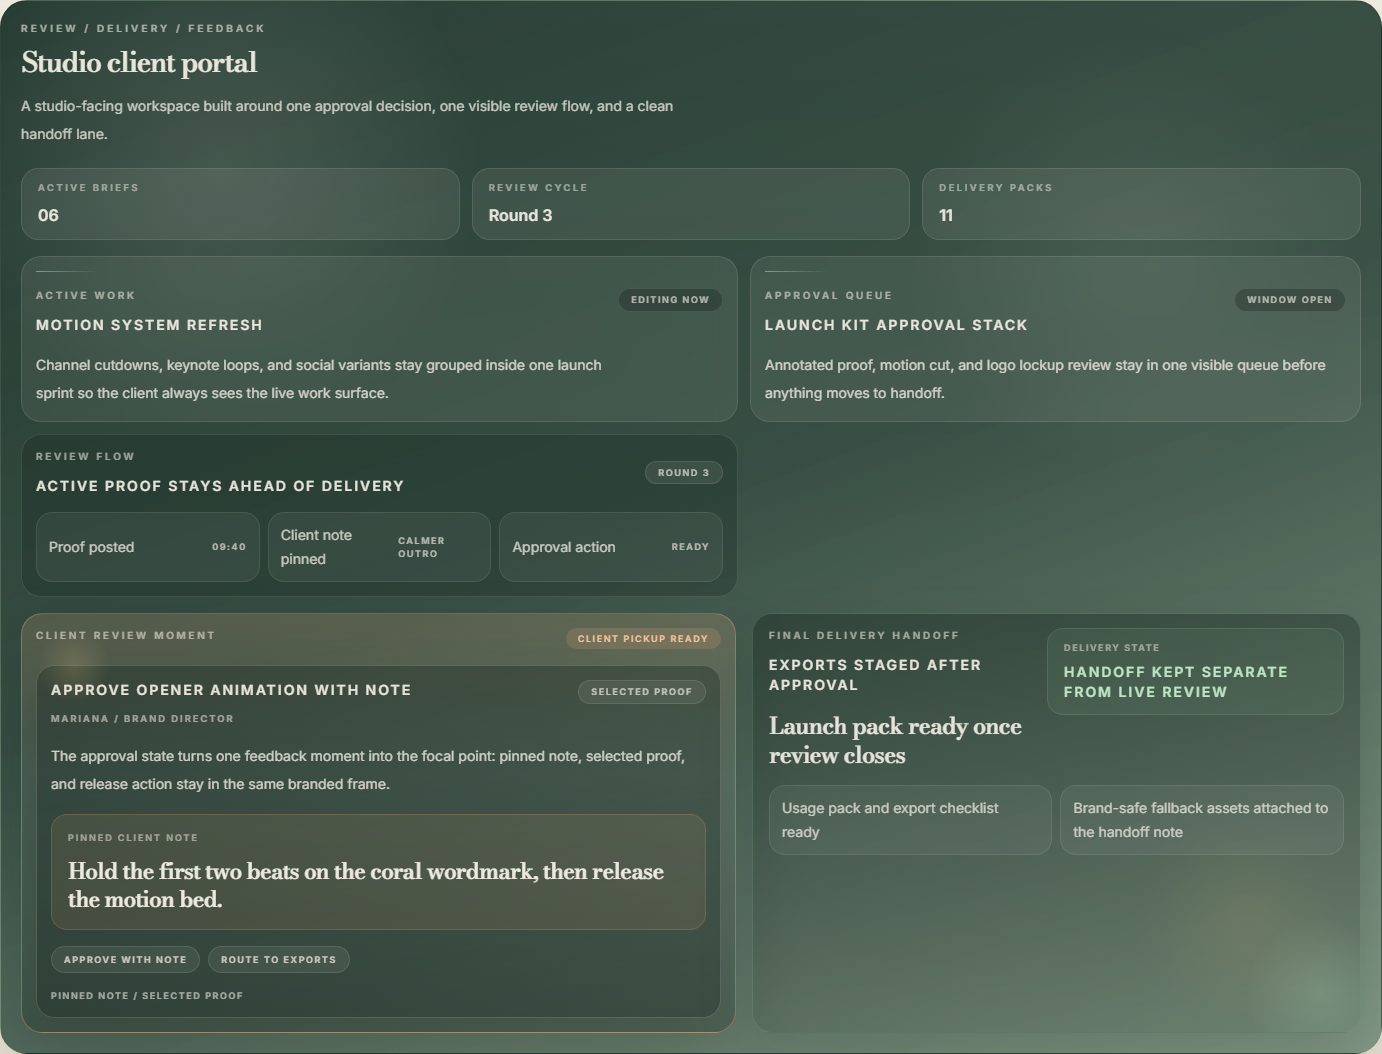
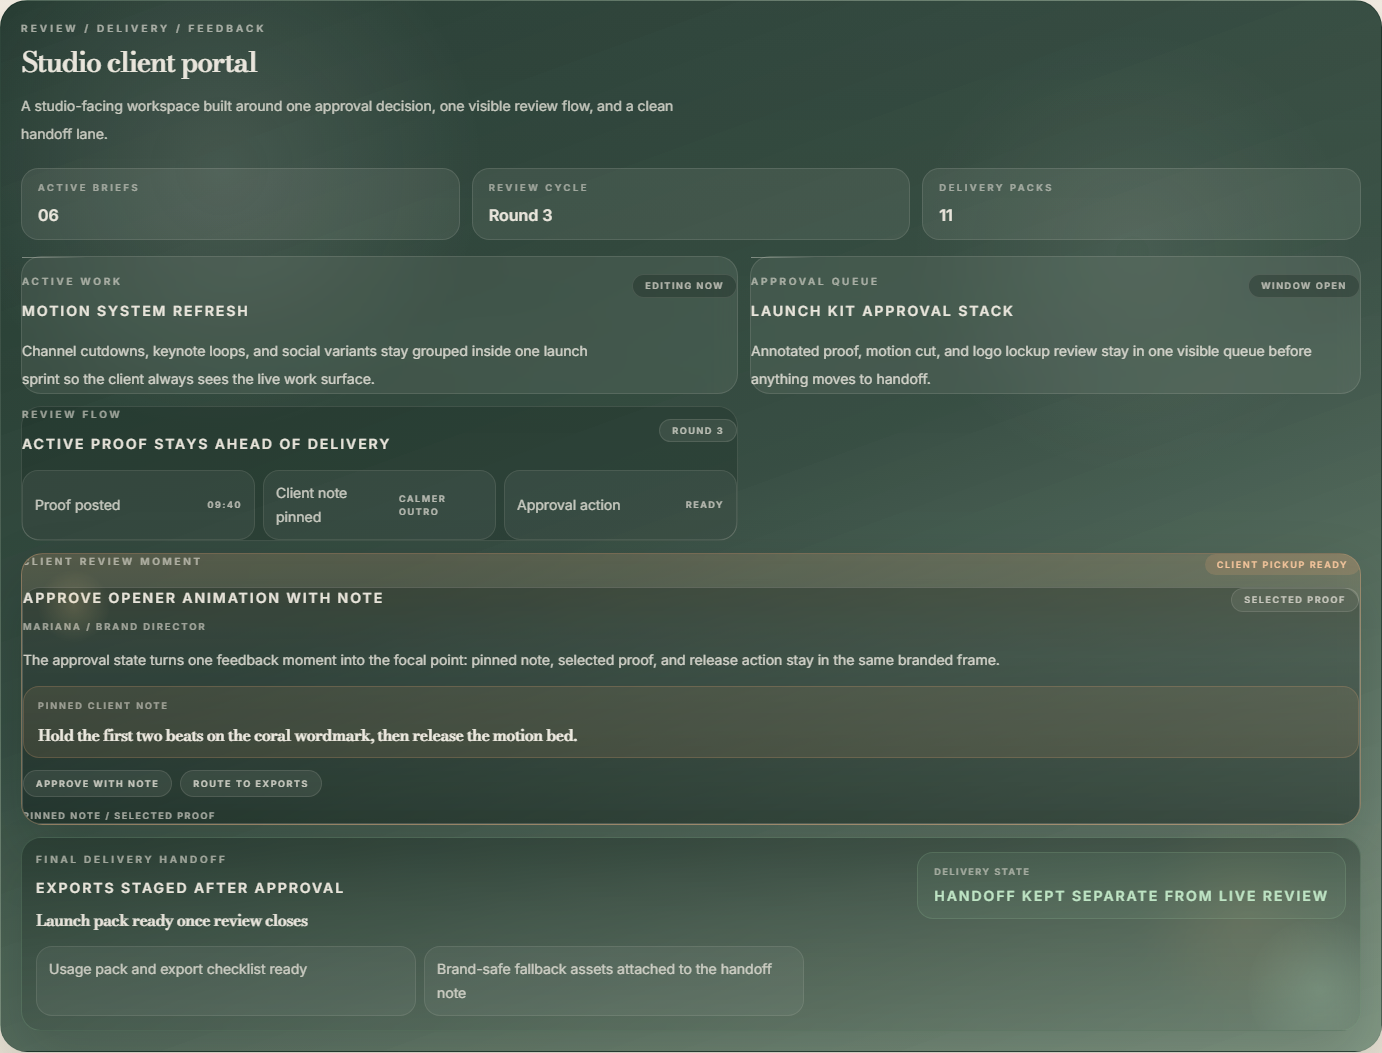
Scale down the Studio Current band

diff --git a/tests/Visual/homepage.spec.ts b/tests/Visual/homepage.spec.ts
@@ -157,4 +157,19 @@ test.describe('Homepage visuals', () => {
 
         expect(failures).toEqual([]);
     });
+
+    test('Studio Current desktop band stays no taller than Northline Learning Ops', async ({ page, browserName }, testInfo) => {
+        test.skip(browserName !== 'chromium' || testInfo.project.name !== 'desktop-chromium');
+
+        const heights = await page.$$eval('[data-project-band]', (bands) => {
+            return Object.fromEntries(
+                bands.map((band) => [
+                    band.getAttribute('data-project-band-principle'),
+                    Math.round(band.getBoundingClientRect().height),
+                ]),
+            );
+        });
+
+        expect(heights['Design for impact']).toBeLessThanOrEqual(heights.DDD);
+    });
 });

diff --git a/resources/views/pages/home.blade.php b/resources/views/pages/home.blade.php
@@ -291,10 +291,10 @@
                                                         @endforeach
                                                     </div>
                                                 @else
-                                                    <div class="mt-4 grid gap-4">
+                                                    <div class="mt-4 grid gap-3">
                                                         <div class="grid gap-3 xl:grid-cols-[minmax(0,1.08fr)_minmax(0,0.92fr)]">
                                                             @foreach ($project['surface']['workstreams'] as $workstream)
-                                                                <section class="project-surface__impact-card rounded-[1.25rem] border border-[rgba(244,239,230,0.12)] bg-[rgba(244,239,230,0.08)] p-3.5">
+                                                                <section class="project-surface__impact-card rounded-[1.25rem] border border-[rgba(244,239,230,0.12)] bg-[rgba(244,239,230,0.08)] p-3">
                                                                     <div class="flex items-start justify-between gap-3">
                                                                         <div>
                                                                             <p class="text-[0.62rem] font-semibold uppercase tracking-[0.28em] text-[color:rgba(244,239,230,0.58)]">
@@ -314,7 +314,7 @@
                                                                 </section>
                                                             @endforeach
 
-                                                            <section class="rounded-[1.25rem] border border-[rgba(244,239,230,0.12)] bg-[rgba(8,21,16,0.22)] p-3.5" data-impact-review-flow>
+                                                            <section class="rounded-[1.25rem] border border-[rgba(244,239,230,0.12)] bg-[rgba(8,21,16,0.22)] p-3" data-impact-review-flow>
                                                                 <div class="flex items-center justify-between gap-3">
                                                                     <div>
                                                                         <p class="text-[0.62rem] font-semibold uppercase tracking-[0.28em] text-[color:rgba(244,239,230,0.58)]">
@@ -344,8 +344,8 @@
                                                             </section>
                                                         </div>
 
-                                                        <div class="grid gap-4 xl:grid-cols-[minmax(0,1.08fr)_minmax(18.5rem,0.92fr)]">
-                                                            <section class="project-surface__feedback rounded-[1.35rem] border border-[rgba(218,163,122,0.42)] bg-[linear-gradient(180deg,rgba(235,168,119,0.18),rgba(244,239,230,0.08)_38%,rgba(8,21,16,0.26))] p-3.5 shadow-[0_30px_65px_rgba(10,25,19,0.2)]" data-impact-approval>
+                                                        <div class="grid gap-3 xl:grid-cols-[minmax(0,1.04fr)_minmax(17.5rem,0.88fr)]">
+                                                            <section class="project-surface__feedback rounded-[1.35rem] border border-[rgba(218,163,122,0.42)] bg-[linear-gradient(180deg,rgba(235,168,119,0.18),rgba(244,239,230,0.08)_38%,rgba(8,21,16,0.26))] p-3 shadow-[0_30px_65px_rgba(10,25,19,0.2)]" data-impact-approval>
                                                                 <div class="flex items-start justify-between gap-3">
                                                                     <p class="text-[0.62rem] font-semibold uppercase tracking-[0.28em] text-[color:rgba(244,239,230,0.58)]">
                                                                         {{ $project['surface']['feedback']['label'] }}
@@ -355,7 +355,7 @@
                                                                     </span>
                                                                 </div>
 
-                                                                <div class="mt-4 rounded-[1.15rem] border border-[rgba(244,239,230,0.18)] bg-[rgba(8,21,16,0.3)] p-3.5 shadow-[0_22px_50px_rgba(10,25,19,0.18)]">
+                                                                <div class="mt-3 rounded-[1.15rem] border border-[rgba(244,239,230,0.18)] bg-[rgba(8,21,16,0.3)] p-3 shadow-[0_22px_50px_rgba(10,25,19,0.18)]">
                                                                     <div class="flex items-start justify-between gap-3">
                                                                         <div>
                                                                             <p class="text-sm font-semibold uppercase tracking-[0.14em] text-[color:rgba(244,239,230,0.94)]">
@@ -370,20 +370,20 @@
                                                                         </span>
                                                                     </div>
 
-                                                                    <p class="mt-4 text-sm leading-7 text-[color:rgba(244,239,230,0.82)]">
+                                                                    <p class="mt-3 text-sm leading-7 text-[color:rgba(244,239,230,0.82)]">
                                                                         {{ $project['surface']['feedback']['detail'] }}
                                                                     </p>
 
-                                                                    <div class="mt-4 rounded-[1rem] border border-[rgba(235,168,119,0.2)] bg-[rgba(235,168,119,0.1)] px-4 py-4">
+                                                                    <div class="mt-3 rounded-[1rem] border border-[rgba(235,168,119,0.2)] bg-[rgba(235,168,119,0.1)] px-3.5 py-3">
                                                                         <p class="text-[0.56rem] font-semibold uppercase tracking-[0.22em] text-[color:rgba(244,239,230,0.54)]">
                                                                             Pinned client note
                                                                         </p>
-                                                                        <p class="mt-3 font-display text-[1.4rem] leading-tight tracking-[-0.03em] text-[color:rgba(244,239,230,0.96)]">
+                                                                        <p class="mt-3 font-display text-[1.24rem] leading-tight tracking-[-0.03em] text-[color:rgba(244,239,230,0.96)] sm:text-[1.32rem]">
                                                                             {{ $project['surface']['feedback']['comment'] }}
                                                                         </p>
                                                                     </div>
 
-                                                                    <div class="mt-4 flex flex-wrap gap-2">
+                                                                    <div class="mt-3 flex flex-wrap gap-2">
                                                                         @foreach ($project['surface']['feedback']['actions'] as $action)
                                                                             <span class="whitespace-nowrap rounded-full border border-[rgba(244,239,230,0.12)] bg-[rgba(244,239,230,0.08)] px-3 py-1.5 text-[0.56rem] font-semibold uppercase tracking-[0.18em] text-[color:rgba(244,239,230,0.78)]">
                                                                                 {{ $action }}
@@ -391,13 +391,13 @@
                                                                         @endforeach
                                                                     </div>
 
-                                                                    <p class="mt-4 text-[0.56rem] font-semibold uppercase tracking-[0.18em] text-[color:rgba(244,239,230,0.62)]">
+                                                                    <p class="mt-3 text-[0.56rem] font-semibold uppercase tracking-[0.18em] text-[color:rgba(244,239,230,0.62)]">
                                                                         {{ implode(' / ', $project['surface']['feedback']['badges']) }}
                                                                     </p>
                                                                 </div>
                                                             </section>
 
-                                                            <section class="project-surface__delivery h-full rounded-[1.25rem] border border-[rgba(159,209,167,0.18)] bg-[linear-gradient(180deg,rgba(8,21,16,0.32),rgba(8,21,16,0.16))] px-4 py-3.5 shadow-[0_26px_56px_rgba(10,25,19,0.16)]" data-impact-delivery>
+                                                            <section class="project-surface__delivery h-full rounded-[1.25rem] border border-[rgba(159,209,167,0.18)] bg-[linear-gradient(180deg,rgba(8,21,16,0.32),rgba(8,21,16,0.16))] p-3.5 shadow-[0_26px_56px_rgba(10,25,19,0.16)]" data-impact-delivery>
                                                                 <div class="flex flex-col gap-4 lg:flex-row lg:items-start lg:justify-between">
                                                                     <div class="max-w-xl">
                                                                         <p class="text-[0.62rem] font-semibold uppercase tracking-[0.28em] text-[color:rgba(244,239,230,0.58)]">
@@ -406,7 +406,7 @@
                                                                         <p class="mt-3 text-sm font-semibold uppercase tracking-[0.14em] text-[color:rgba(244,239,230,0.94)]">
                                                                             {{ $project['surface']['delivery']['value'] }}
                                                                         </p>
-                                                                        <p class="mt-4 font-display text-[1.45rem] leading-tight tracking-[-0.03em] text-[color:rgba(244,239,230,0.92)]">
+                                                                        <p class="mt-3 font-display text-[1.24rem] leading-tight tracking-[-0.03em] text-[color:rgba(244,239,230,0.92)] sm:text-[1.34rem]">
                                                                             {{ $project['surface']['delivery']['title'] }}
                                                                         </p>
                                                                     </div>

diff --git a/progress.md b/progress.md
@@ -107,3 +107,9 @@ Implemented PRD item #23
 - Updated the homepage feature test to assert the explicit Harbor Ledger focus, evidence, and release-region structure in DOM order instead of relying on copy alone.
 Next: Pick the next runnable child issue for parent PRD #22.
 ---
+## 2026-03-31
+Implemented PRD item #25
+- Tightened the Studio Current approval and delivery surfaces so the band reads closer to the Northline scale instead of expanding into a heavier third-row block.
+- Added a desktop Playwright guard that keeps the Studio Current band no taller than the Northline Learning Ops band, and refreshed the affected Studio snapshots after a desktop/mobile visual pass.
+Next: Pick the next runnable child issue for parent PRD #24.
+---